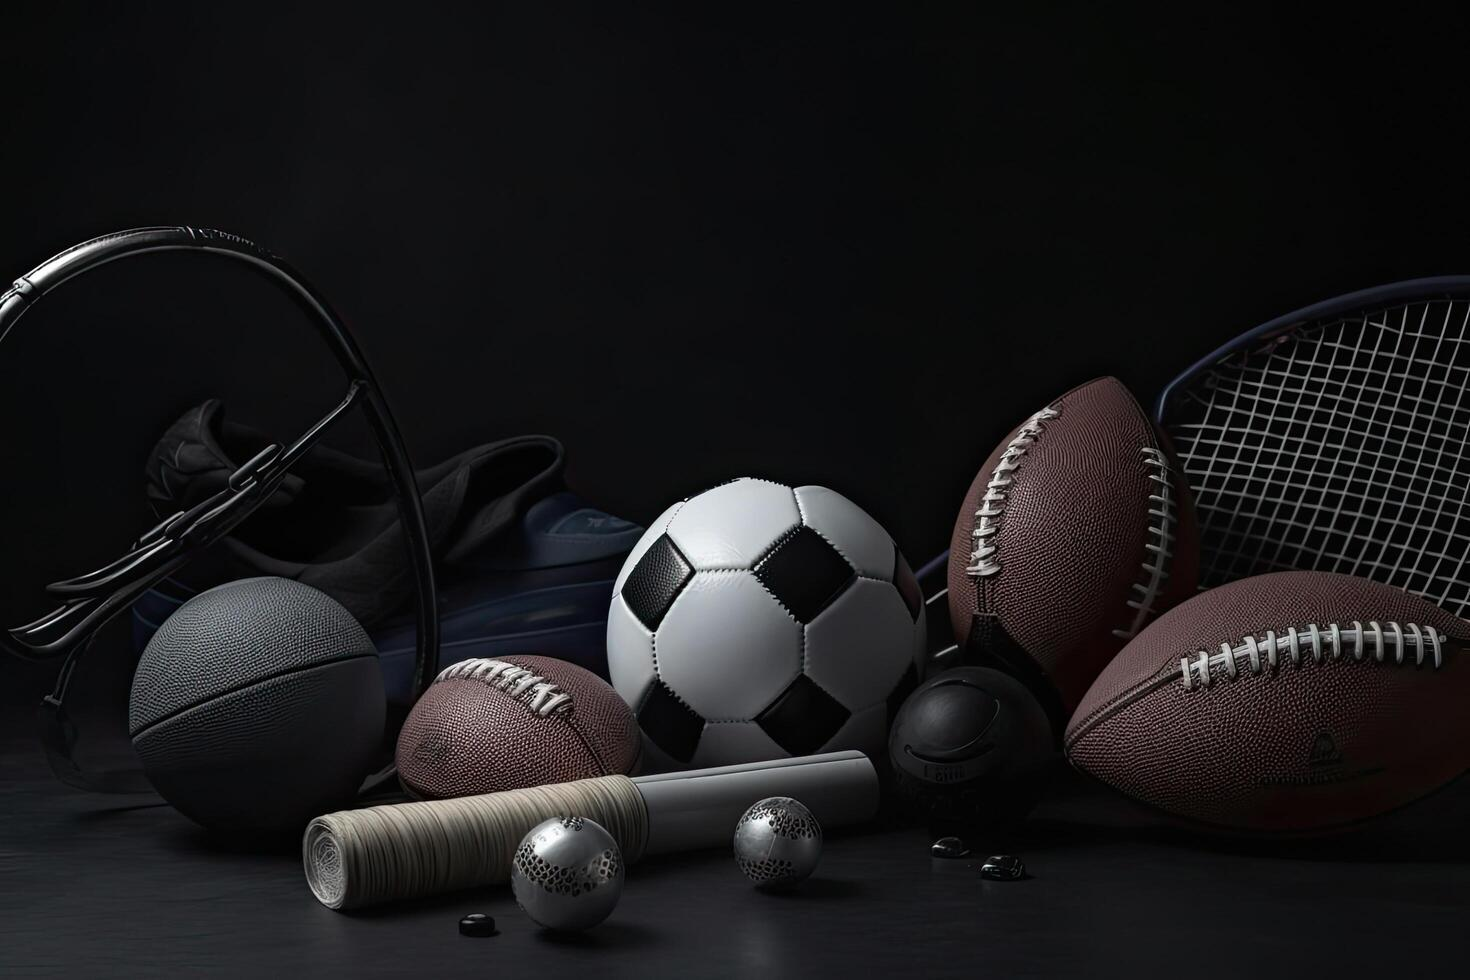
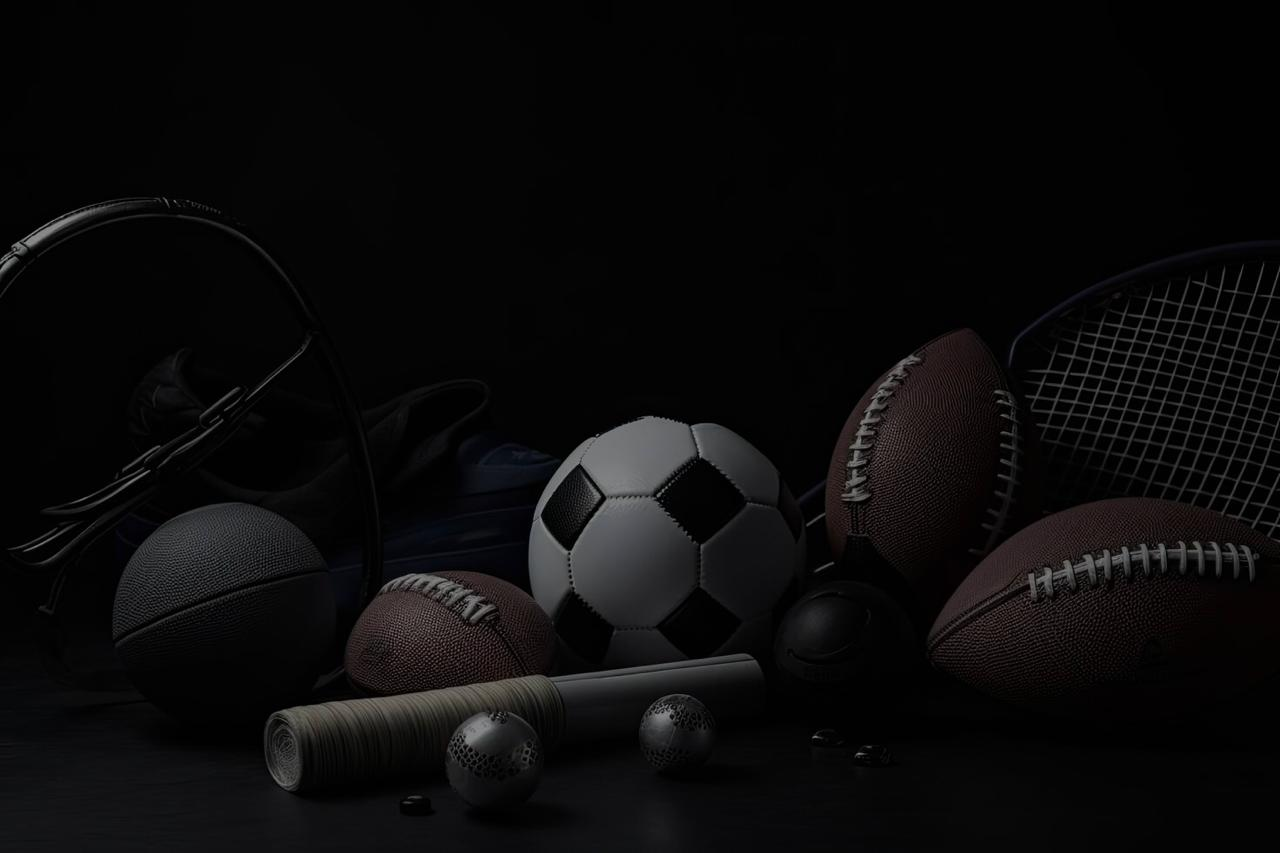
responsive

diff --git a/src/pages/entrevistas_locas.jsx b/src/pages/entrevistas_locas.jsx
@@ -1,12 +1,14 @@
 import React from "react";
 import "../css/entrevistas_locas.css";
+import { PiMicrophoneStageFill } from "react-icons/pi";
+
 
 export default function EntrevistasLocas() {
   return (
     <div className="contenedor-entrevistas">
       <header className="encabezado-entrevistas">
         <div className="contenido-encabezado">
-          <h1 className="entrevistas-h1">Entrevistas Locas</h1>
+          <h1 className="entrevistas-h1"><PiMicrophoneStageFill className='nt-vd-icono-entre' />Entrevistas Locas</h1>
           <p className="entrevistas-p1">
             A veces nuestros reporteros le preguntan a las personas qué opinan sobre diferentes temas. Aquí tenemos una recopilación de las mejores respuestas.
           </p>
@@ -26,7 +28,7 @@ export default function EntrevistasLocas() {
 
           <div className="info-entrevista">
             <div className="etiqueta-fecha">
-              <span className="categoria">Entrevistas Locas</span>
+              {/*<span className="categoria">Entrevistas Locas</span>*/}
               <span className="fecha">12/05/2025</span>
             </div>
 
@@ -38,12 +40,12 @@ export default function EntrevistasLocas() {
             </p>
 
             <div className="autor-entrevista">
-              <div className="avatar">
+              {/*<div className="avatar">
                 <img
                   src="https://i0.wp.com/31minutosoficial.cl/wp-content/uploads/2014/01/thumb-policarpo2.png?w=640&ssl=1"
                   alt="Policarpo"
                 />
-              </div>
+              </div>*/}
               <span>Policarpo</span>
             </div>
           </div>
@@ -60,7 +62,7 @@ export default function EntrevistasLocas() {
 
           <div className="info-entrevista">
             <div className="etiqueta-fecha">
-              <span className="categoria">Entrevistas Locas</span>
+              {/*<span className="categoria">Entrevistas Locas</span>*/}
               <span className="fecha">10/05/2025</span>
             </div>
 
@@ -72,12 +74,12 @@ export default function EntrevistasLocas() {
             </p>
 
             <div className="autor-entrevista">
-              <div className="avatar">
+              {/*<div className="avatar">
                 <img
                   src="https://i0.wp.com/31minutosoficial.cl/wp-content/uploads/2014/02/thumb-patana.png?resize=300%2C300&ssl=1"
                   alt="Patana"
                 />
-              </div>
+              </div>*/}
               <span>Patana</span>
             </div>
           </div>

diff --git a/src/pages/deportes.jsx b/src/pages/deportes.jsx
@@ -1,4 +1,7 @@
-import { useEffect, useState, useRef } from 'react';
+import { useState } from 'react';
+import { FaRegFutbol } from "react-icons/fa";
+import { LuLeaf } from "react-icons/lu";
+
 import '../css/deportes.css'; 
 
 const Deportes = () => {
@@ -11,6 +14,9 @@ const Deportes = () => {
       categoria: 'Futbol',
       fecha: '2025-06-06',
       autor: 'Tulio Triviño',
+    },
+    {
+      hazaña: 'Con apenas 16 años, Valeria Gómez, atleta colombiana, rompió el récord nacional en los 400 metros planos con un tiempo de 51.98 segundos, superando una marca que llevaba 22 años intacta. Lo logró en el Torneo Sudamericano Juvenil en Lima, dejando claro que el futuro del atletismo ya está aquí.'
     }];
   
   const [selectedNoticia, setSelectedNoticia] = useState(null);
@@ -30,7 +36,7 @@ const Deportes = () => {
 
       <section className='deportes'>
         <div className='deportes-header'>
-          <p className='deportes-p1'> Deportes</p>
+          <p className='deportes-p1'> <FaRegFutbol className='nt-vd-icono' /> Deportes</p>
           <p className='deportes-p2'> Las últimas novedades sobre los deportistas más extravagantes.
           </p>
           {/*<p className='deportes-p3'>Actualizado: 9 de Mayo de 2025</p>
@@ -62,8 +68,10 @@ const Deportes = () => {
             </div>))}
         </div>
       </section>
+
+      <h1 className='hazaña-semana-h1'>La hazaña de la semana</h1>
       <div className="hazaña-banner">
-        <h3>La hazaña de la semana</h3>
+        <p>{noticias[1].hazaña}</p>
       </div>
 
       {showModal && selectedNoticia && (

diff --git a/src/css/home.css b/src/css/home.css
@@ -389,7 +389,7 @@
 
 
 .div-prueba-deportes {
-  background-image: url('/fondos/deportes2.jpg');
+  background-image: url('/fondos/deportes.jpg');
   background-size: cover;
   background-position: center;
   width: 95%;
@@ -436,7 +436,7 @@
 
 
 .div-prueba-horoscopo{
-  background-image: url('/fondos/horoscopo.webp');
+  background-image: url('/fondos/horoscopo.jpg');
   background-size: cover;
   background-position: center;
   width: 95%;
@@ -464,7 +464,7 @@
 
 
 .div-prueba-notaverde {
-  background-image: url('/fondos/nota-verde.jpeg');
+  background-image: url('/fondos/nota verde.jpg');
   background-size: cover;
   background-position: center;
   width: 95%;
@@ -494,7 +494,7 @@
 
 
 .div-prueba-tulioresponde{
-  background-image: url('/fondos/tulioresponde2.jpg');
+  background-image: url('/fondos/tulio responde.jpg');
   background-size: cover;
   background-position: center;
   width: 95%;
@@ -512,7 +512,7 @@
 }
 
 .div-prueba-entrevistas{
-  background-image: url('/fondos/entrevistaslocas2.jpg');
+  background-image: url('/fondos/entrevistas.jpg');
   background-size: cover;
   background-position: center;
   width: 95%;

diff --git a/src/css/entrevistas_locas.css b/src/css/entrevistas_locas.css
@@ -34,6 +34,13 @@
   font-weight: normal;
 }
 
+.nt-vd-icono-entre{
+  color: white;
+  font-size: 2.2rem;
+  margin-bottom: -0.4rem;
+  margin-right: 1rem;
+}
+
 .entrevistas-p1 {
   font-size: 1rem;
   margin-bottom: 1rem;
@@ -57,9 +64,7 @@
 }
 
 .contenido-entrevistas {
-  padding: 2rem;
-  max-width: 1200px;
-  margin: 0 auto;
+  margin: 20px 50px;
 }
 
 .entrevistas-h2 {
@@ -71,7 +76,7 @@
 
 .tarjeta-entrevista {
   display: flex;
-  flex-direction: row; /* Default for larger screens */
+  flex-direction: row; 
   gap: 2rem;
   margin-bottom: 2.5rem;
   background: #fff;
@@ -120,6 +125,7 @@
 
 .fecha {
   align-self: center;
+  font-family: 'Noto Sans KR', sans-serif;
 }
 
 .titulo-entrevista {
@@ -178,7 +184,8 @@
   }
 
   .contenido-entrevistas {
-    padding: 1rem;
+    padding: 0;
+    margin: 10px 20px;
   }
 
   .entrevistas-h2 {

diff --git a/src/pages/tulio_responde.jsx b/src/pages/tulio_responde.jsx
@@ -1,4 +1,6 @@
 import React, { useState } from "react";
+import { FaCircleQuestion } from "react-icons/fa6";
+
 import "../css/tulio_responde.css";
 
 export default function TulioResponde() {
@@ -16,7 +18,7 @@ export default function TulioResponde() {
     <div>
       <section>
         <div className="contenedor-tulio">
-          <p className="titulo-tulio">Tulio Responde</p>
+          <p className="titulo-tulio"> <FaCircleQuestion className='nt-vd-icono' /> Tulio Responde</p>
           <p className="descripcion-tulio">
             Envía tus preguntas para que Tulio te responda. Las más interesantes y útiles podrán ser respondidas en nuestro próximo programa.
           </p>

diff --git a/src/pages/horoscopo.jsx b/src/pages/horoscopo.jsx
@@ -15,6 +15,7 @@ import { GiAquarius } from "react-icons/gi";
 import { GiPisces } from "react-icons/gi";
 
 
+import { FaStarOfDavid } from "react-icons/fa";
 
 
 
@@ -150,7 +151,7 @@ export default function Horoscopo() {
     <div>
       <section className='horoscopo'>
         <div className='horoscopo-header'>
-          <p className='horoscopo-p1'> Horoscopo semanal</p>
+          <p className='horoscopo-p1'> <FaStarOfDavid className='nt-vd-icono' /> Horoscopo semanal</p>
           <p className='horoscopo-p2'> Las predicciones astrologicas mas disparatadas
             y divertidas de la semana,por Policarpio Avendaño.
           </p>

diff --git a/src/pages/home.jsx b/src/pages/home.jsx
@@ -250,8 +250,7 @@ useEffect(() => {
           </div>
           <div className="div-prueba">
             <button onClick={handleTulioRespondeClick} className='div-prueba-tulioresponde'>
-              <p className='div-prueba-deportes-centro'>Envía tus preguntas para que Tulio te responda. Las más interesantes
-                 y útiles podrán ser respondidas en nuestro próximo programa.</p>
+              <p className='div-prueba-deportes-centro'>Envía tus preguntas para que Tulio te responda.</p>
               <p className='div-prueba-deportes-p'>Tulio Responde</p>
             </button>
           </div>

diff --git a/src/css/deportes.css b/src/css/deportes.css
@@ -58,7 +58,7 @@
 
 
 
-.section-deportes{
+.section-deportes, .hazaña-semana-h1{
   margin: 20px 50px 20px 50px;
 }
 
@@ -146,6 +146,18 @@
   font-size: 1rem;
   color: white;
 }
+
+.hazaña-banner{
+  background-color: #a83232;
+  margin: 20px 50px;
+}
+
+.hazaña-banner p{
+  padding: 1.5rem 1.5rem;
+  color: white;
+  margin: 0;
+}
+
 
 
 .modal-overlay {
@@ -260,6 +272,11 @@
     align-items: start;
     gap: 10px;
   }
+
+  .hazaña-banner{
+    margin: 10px 20px;
+  }
+
 
     /* MODAL */
   .modal-content {

diff --git a/src/css/horoscopo.css b/src/css/horoscopo.css
@@ -70,7 +70,7 @@
 
 
 .horoscopo-mensaje-poli-img-fondo-perfil {
-  background-image: url('/public/reporteros/tulio/Tulio2.jpg'); /* o usa Tulio si usas módulos */
+  background-image: url('/public/reporteros/policarpo/Policarpo1.Jpg'); /* o usa Tulio si usas módulos */
   background-size: cover;
   background-position: center;
   margin-right: 30px;

diff --git a/src/css/tulio_responde.css b/src/css/tulio_responde.css
@@ -64,7 +64,7 @@
   margin-bottom: 0.5rem;
 }
 .input-wrapper input {
-  width: 95%;
+  width: 100%;
   padding: 0.6rem 1rem;
   font-family: 'Noto Sans KR', sans-serif;
   font-size: 1rem;
